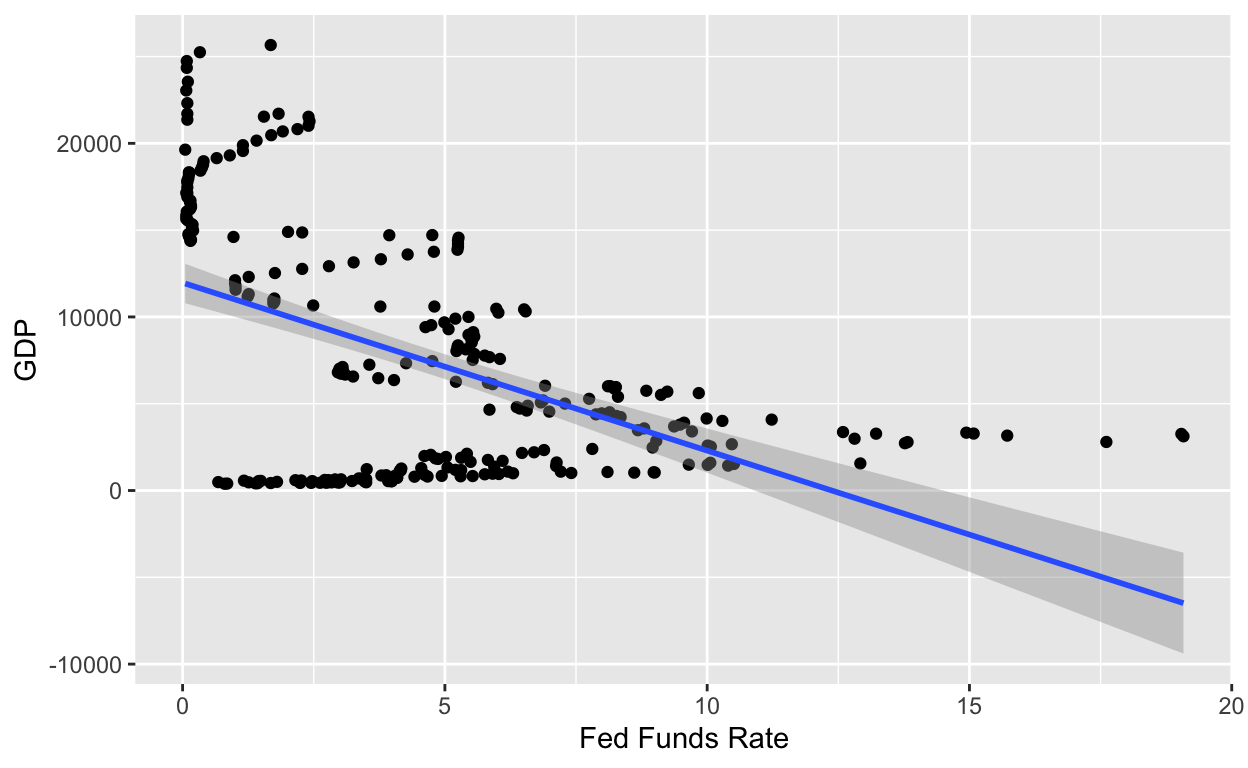
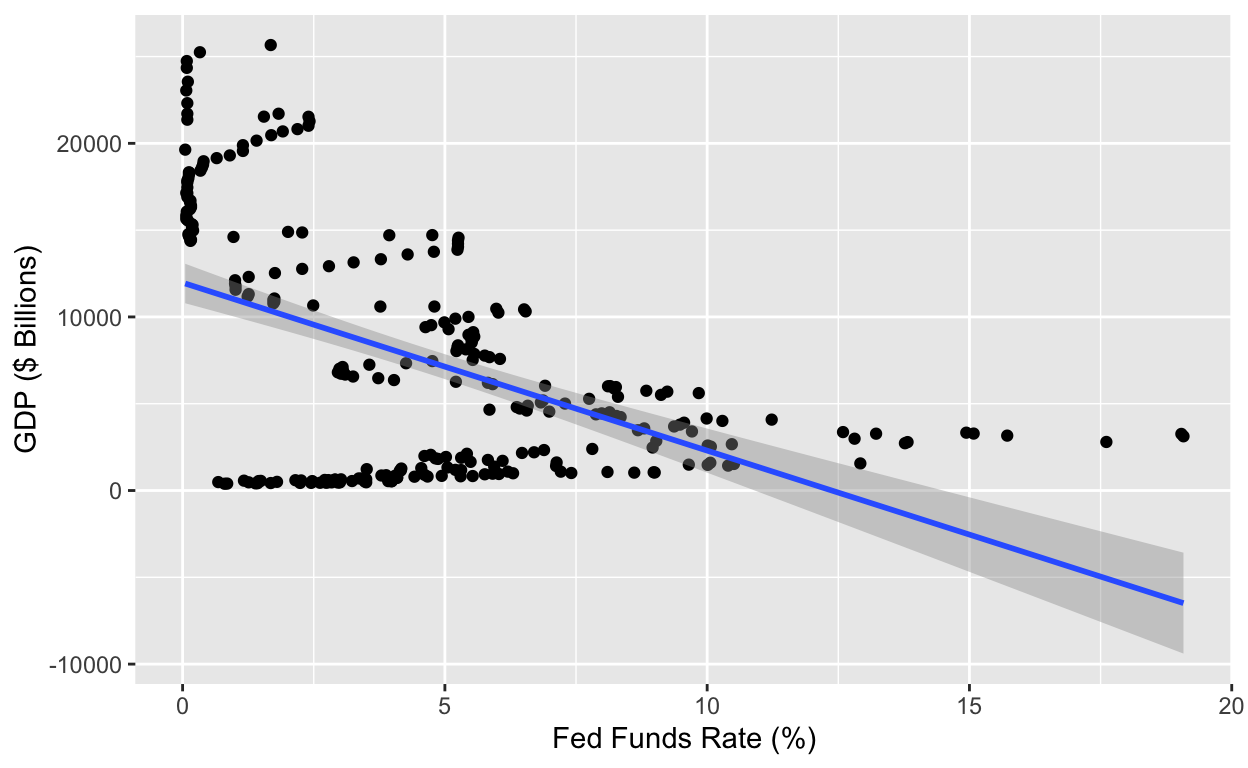
11/28/22

Changed region(s): [[0.4375, 0.9375, 0.6562, 1.0], [0.0, 0.3125, 0.0312, 0.5938]]

diff --git a/index.html b/index.html
@@ -1548,7 +1548,8 @@ Data on U.S. GDP by year since 1947 (the first year they were documented): <a hr
 <span><span class='va'>regression</span> <span class='op'>&lt;-</span> <span class='fu'><a href='https://rdrr.io/r/stats/lm.html'>lm</a></span><span class='op'>(</span><span class='va'>GDP</span> <span class='op'>~</span> <span class='va'>`Fed Funds Rate`</span> <span class='op'>+</span> <span class='va'>Date_lag</span>, <span class='va'>GDP_And_Fed_Funds_Rates</span><span class='op'>)</span></span>
 <span></span>
 <span><span class='va'>ggplot_fed_funds_rates</span> <span class='op'>&lt;-</span> <span class='fu'><a href='https://ggplot2.tidyverse.org/reference/ggplot.html'>ggplot</a></span><span class='op'>(</span>data <span class='op'>=</span> <span class='va'>GDP_And_Fed_Funds_Rates</span>, mapping <span class='op'>=</span> <span class='fu'><a href='https://ggplot2.tidyverse.org/reference/aes.html'>aes</a></span><span class='op'>(</span>x <span class='op'>=</span> <span class='va'>Date</span>, y <span class='op'>=</span> <span class='va'>`Fed Funds Rate`</span><span class='op'>)</span><span class='op'>)</span> <span class='op'>+</span></span>
-<span>  <span class='fu'><a href='https://ggplot2.tidyverse.org/reference/geom_bar.html'>geom_col</a></span><span class='op'>(</span><span class='op'>)</span> </span>
+<span>  <span class='fu'><a href='https://ggplot2.tidyverse.org/reference/geom_bar.html'>geom_col</a></span><span class='op'>(</span><span class='op'>)</span> <span class='op'>+</span></span>
+<span>  <span class='fu'><a href='https://ggplot2.tidyverse.org/reference/labs.html'>labs</a></span><span class='op'>(</span>y <span class='op'>=</span> <span class='st'>"Fed Funds Rate (%)"</span><span class='op'>)</span></span>
 <span></span>
 <span><span class='va'>ggplot_GDP</span> <span class='op'>&lt;-</span> <span class='fu'><a href='https://ggplot2.tidyverse.org/reference/ggplot.html'>ggplot</a></span><span class='op'>(</span>data <span class='op'>=</span> <span class='va'>GDP_And_Fed_Funds_Rates</span>, mapping <span class='op'>=</span> <span class='fu'><a href='https://ggplot2.tidyverse.org/reference/aes.html'>aes</a></span><span class='op'>(</span>x <span class='op'>=</span> <span class='va'>Date_lag</span>, y <span class='op'>=</span> <span class='va'>GDP</span><span class='op'>)</span><span class='op'>)</span> <span class='op'>+</span></span>
 <span>  <span class='fu'><a href='https://ggplot2.tidyverse.org/reference/geom_bar.html'>geom_col</a></span><span class='op'>(</span><span class='op'>)</span> <span class='op'>+</span></span>
@@ -1561,7 +1562,9 @@ Data on U.S. GDP by year since 1947 (the first year they were documented): <a hr
 <span></span>
 <span><span class='va'>ggplot_regression</span> <span class='op'>&lt;-</span> <span class='fu'><a href='https://ggplot2.tidyverse.org/reference/ggplot.html'>ggplot</a></span><span class='op'>(</span>data <span class='op'>=</span> <span class='va'>GDP_And_Fed_Funds_Rates</span>, mapping <span class='op'>=</span> <span class='fu'><a href='https://ggplot2.tidyverse.org/reference/aes.html'>aes</a></span><span class='op'>(</span>x <span class='op'>=</span><span class='va'>`Fed Funds Rate`</span>, y <span class='op'>=</span> <span class='va'>GDP</span><span class='op'>)</span><span class='op'>)</span> <span class='op'>+</span></span>
 <span>  <span class='fu'><a href='https://ggplot2.tidyverse.org/reference/geom_point.html'>geom_point</a></span><span class='op'>(</span><span class='op'>)</span> <span class='op'>+</span></span>
-<span>  <span class='fu'><a href='https://ggplot2.tidyverse.org/reference/geom_smooth.html'>geom_smooth</a></span><span class='op'>(</span>method <span class='op'>=</span> <span class='st'>"lm"</span><span class='op'>)</span></span></code></pre>
+<span>  <span class='fu'><a href='https://ggplot2.tidyverse.org/reference/geom_smooth.html'>geom_smooth</a></span><span class='op'>(</span>method <span class='op'>=</span> <span class='st'>"lm"</span><span class='op'>)</span> <span class='op'>+</span></span>
+<span>  <span class='fu'><a href='https://ggplot2.tidyverse.org/reference/labs.html'>labs</a></span><span class='op'>(</span>x <span class='op'>=</span> <span class='st'>"Fed Funds Rate (%)"</span>,</span>
+<span>       y <span class='op'>=</span> <span class='st'>"GDP ($ Billions)"</span><span class='op'>)</span></span></code></pre>
 </div>
 </div>
 <h2 id="results-from-one-analysis">Results From One Analysis:</h2>
